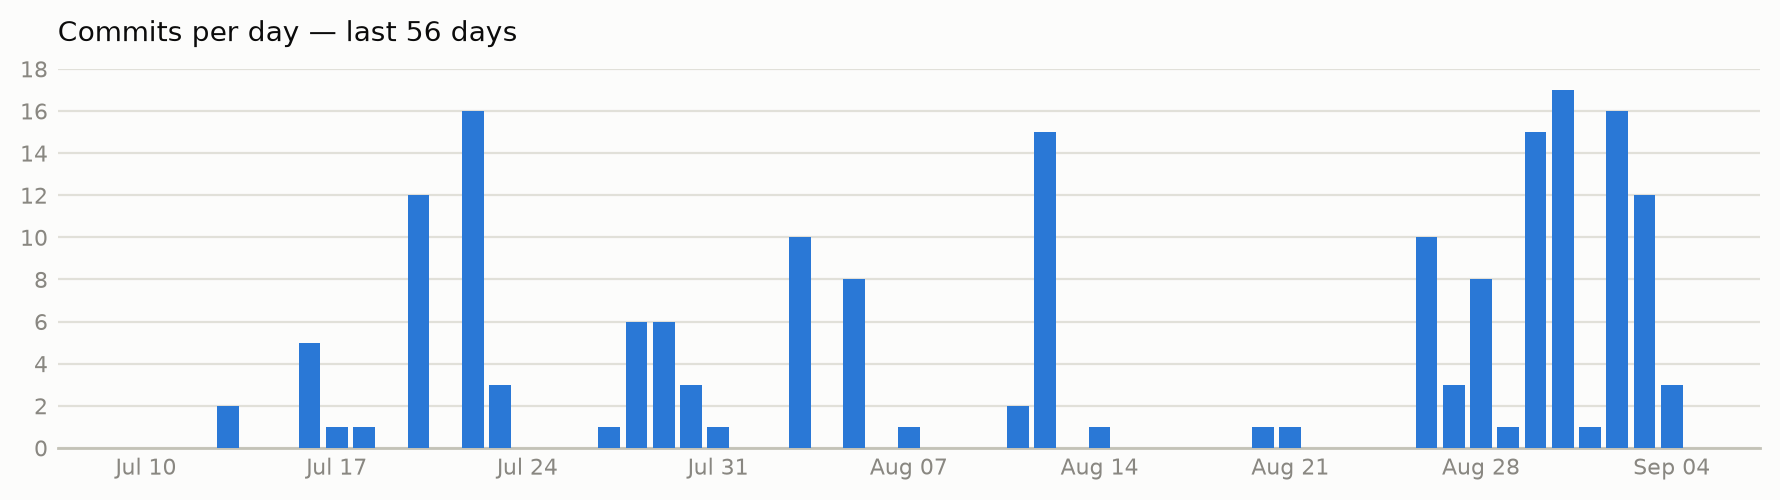
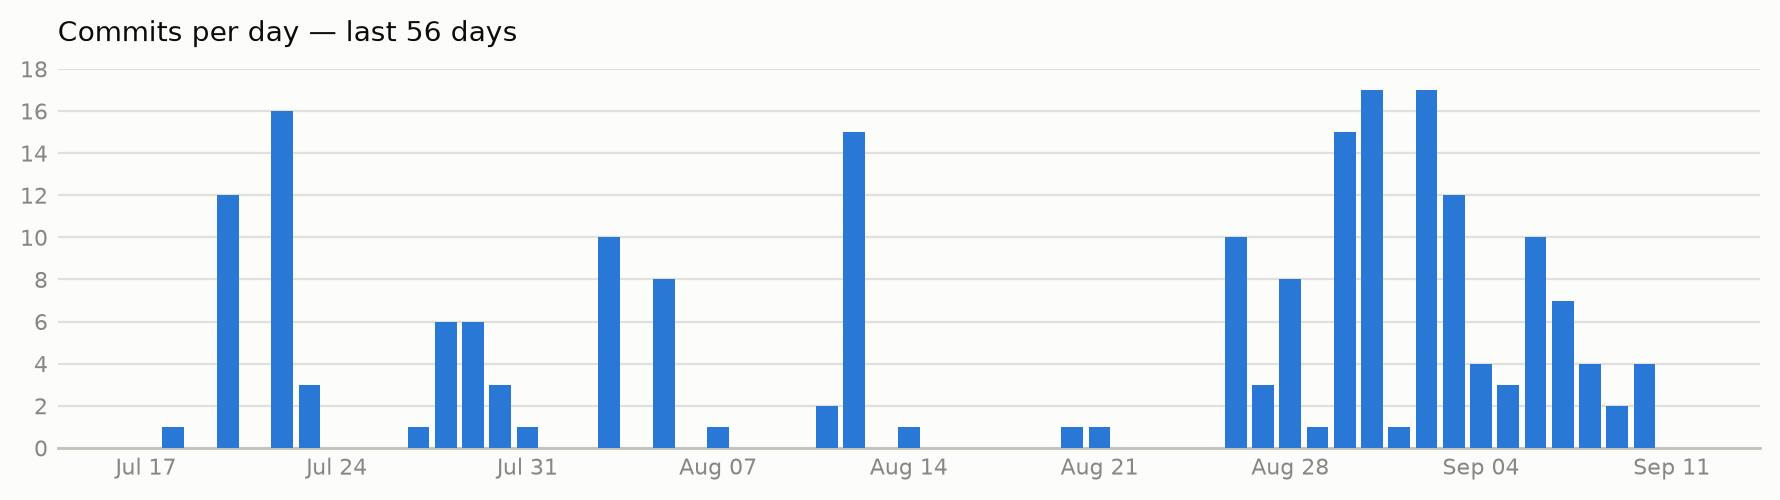
chore: update org README stats

diff --git a/profile/README.md b/profile/README.md
@@ -35,7 +35,7 @@ Placeholder: TieTech Innovations builds ___. We focus on ___ for ___.
 ## 📊 Commit activity
 
 <!-- STATS:START -->
-In the last 56 days: **182** commits across **8/55** active repos (**54** private).
+In the last 56 days: **210** commits across **8/55** active repos (**54** private).
 
 <picture>
   <source media="(prefers-color-scheme: dark)" srcset="assets/commit-graph-dark.png">
@@ -44,23 +44,23 @@ In the last 56 days: **182** commits across **8/55** active repos (**54** privat
 
 **Most active repos**
 
-- `chatbot-saas` — 60 commits
-- `ledger-pro-backend` — 30 commits
-- `minaya-backend` — 29 commits
-- `.github` — 26 commits
-- `social-media-pipeline` — 16 commits
+- `chatbot-saas` — 73 commits
+- `minaya-backend` — 37 commits
+- `ledger-pro-backend` — 28 commits
+- `.github` — 27 commits
+- `social-media-pipeline` — 22 commits
 
 **Top contributors**
 
-- ZainMustafaaa — 93 commits
-- abdullahumar2002 — 26 commits
-- sanaejaz — 19 commits
-- majidimtiaz3 — 19 commits
+- ZainMustafaaa — 121 commits
+- abdullahumar2002 — 25 commits
+- sanaejaz — 18 commits
+- majidimtiaz3 — 18 commits
 - MajidImtiaz — 12 commits
 
 **Primary languages**: `JavaScript`, `TypeScript`, `Python`, `Solidity`, `Kotlin`
 <!-- STATS:END -->
 
 <div align="center">
-<sub>Last updated: 2026-09-04 18:51 UTC</sub>
+<sub>Last updated: 2026-09-11 19:01 UTC</sub>
 </div>
